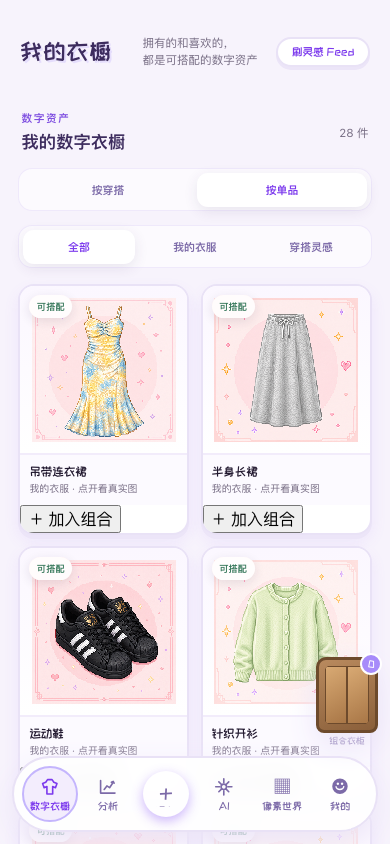
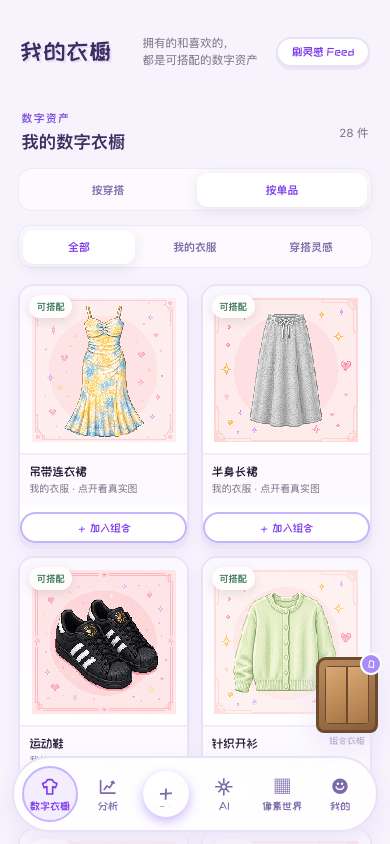
对话记录不再丢穿搭，修徽章和按钮样式，像素封面真的去底
**对话记录点进去变成新对话。** rememberConversation 每写一轮都无条件写
outfitLookId: null，于是「存了一套之后又多聊一句」就把那条链接抹掉了，
点记录只能进到新对话。存过的搭配是这条记录里最有价值的东西，只能被显式
传进来的 patch 覆盖。顺带把它改成函数式更新——它会从 mutation 的 onSuccess
里被调，那里拿到的 history 是旧闭包。

实测：存一套 → 再聊一句 → 记录里 outfitLookId 还在 → 点进去直接是那套的详情。

**「使用中」徽章盖住整张形象照。** 同一个徽章有两套定位规则：
.profile__photo span 把 top 钉在 7px，.photo-manager__active 把 bottom 钉在
8px，两条同时命中就把它从上拉到下。删掉重复的那条，徽章从 57×141 回到 57×18。

**「加入组合」按钮跟像素风不搭。** .combo-add 压根没有任何样式，显示的是
浏览器默认按钮——方框、系统字体。补成圆体胶囊，已加入时实心紫。

**像素封面带底色走进像素世界。** 去底原来按颜色判断（近白、低饱和），而
封面的底是饱和的粉紫渐变：浅的那部分勉强被吃掉，深的留下来。改颜色阈值
容易误伤粉色衣服，所以换成从画面四边往里漫水——人物不会碰到卡片边缘，
凡是跟边缘连通的就是背景，什么颜色都无所谓。容差按相邻像素比较而不是跟
起点比，渐变能一路走下去，人物边缘的突变会挡住它。

被取代的 isBackdrop 一并删掉。合成一张同样形态的图（粉紫渐变+亮点+中间
人形）把行为钉在 e2e 里：四角透明、人物保住、画布确实缩窄。

diff --git a/apps/h5/src/features/community/world/spriteLoader.ts b/apps/h5/src/features/community/world/spriteLoader.ts
@@ -23,16 +23,6 @@ function loadImage(url: string): Promise<HTMLImageElement> {
   });
 }
 
-function isBackdrop(red: number, green: number, blue: number, alpha: number) {
-  if (alpha < 20) return true;
-  const maximum = Math.max(red, green, blue);
-  const minimum = Math.min(red, green, blue);
-  return (
-    (red > 242 && green > 230 && blue > 230) ||
-    (maximum > 232 && maximum - minimum < 30)
-  );
-}
-
 /** Keeps the biggest solid shape, dropping card frames and sparkle specks. */
 function keepLargestOpaqueShape(imageData: ImageData) {
   const { data, width, height } = imageData;
@@ -90,6 +80,75 @@ function keepLargestOpaqueShape(imageData: ImageData) {
 
 const CUTOUT_HEIGHT = 360;
 
+
+/** 相邻两像素算不算「同一片背景」。 */
+const BACKDROP_SPREAD_TOLERANCE = 26;
+
+/**
+ * 从画面四边往里漫水，把跟边缘连通的一律清成透明。
+ *
+ * 原来只按颜色判断（近白、低饱和），可是衣橱的像素封面底是**饱和的粉紫
+ * 渐变**：浅的那部分勉强被认出来，深的直接留下，于是人物脚下拖着一块
+ * 有色底走进像素世界，跟地图格格不入。
+ *
+ * 换成从边框漫水之后，背景是什么颜色都无所谓——人物不会碰到卡片边缘，
+ * 凡是跟边缘连通的就是背景。容差按「相邻像素之间」比较而不是跟起点比，
+ * 所以渐变能一路走下去，而人物边缘的突变会把它挡住。
+ */
+function clearBackdropFromBorder(imageData: ImageData) {
+  const { data, width, height } = imageData;
+  const visited = new Uint8Array(width * height);
+  const queue = new Int32Array(width * height);
+  let head = 0;
+  let tail = 0;
+
+  const push = (index: number) => {
+    if (visited[index]) return;
+    visited[index] = 1;
+    queue[tail++] = index;
+  };
+
+  for (let x = 0; x < width; x += 1) {
+    push(x);
+    push((height - 1) * width + x);
+  }
+  for (let y = 0; y < height; y += 1) {
+    push(y * width);
+    push(y * width + width - 1);
+  }
+
+  while (head < tail) {
+    const index = queue[head++];
+    const offset = index * 4;
+    const red = data[offset];
+    const green = data[offset + 1];
+    const blue = data[offset + 2];
+    data[offset + 3] = 0;
+
+    const x = index % width;
+    const y = (index - x) / width;
+    const neighbours = [
+      x > 0 ? index - 1 : -1,
+      x < width - 1 ? index + 1 : -1,
+      y > 0 ? index - width : -1,
+      y < height - 1 ? index + width : -1
+    ];
+    for (const neighbour of neighbours) {
+      if (neighbour < 0 || visited[neighbour]) continue;
+      const next = neighbour * 4;
+      if (data[next + 3] < 20) {
+        push(neighbour);
+        continue;
+      }
+      const spread =
+        Math.abs(data[next] - red) +
+        Math.abs(data[next + 1] - green) +
+        Math.abs(data[next + 2] - blue);
+      if (spread <= BACKDROP_SPREAD_TOLERANCE) push(neighbour);
+    }
+  }
+}
+
 function cutOut(image: HTMLImageElement): CharacterSprite {
   const scale = CUTOUT_HEIGHT / image.naturalHeight;
   const width = Math.max(1, Math.round(image.naturalWidth * scale));
@@ -101,18 +160,7 @@ function cutOut(image: HTMLImageElement): CharacterSprite {
 
   context.drawImage(image, 0, 0, width, CUTOUT_HEIGHT);
   const imageData = context.getImageData(0, 0, width, CUTOUT_HEIGHT);
-  for (let index = 0; index < imageData.data.length; index += 4) {
-    if (
-      isBackdrop(
-        imageData.data[index],
-        imageData.data[index + 1],
-        imageData.data[index + 2],
-        imageData.data[index + 3]
-      )
-    ) {
-      imageData.data[index + 3] = 0;
-    }
-  }
+  clearBackdropFromBorder(imageData);
   keepLargestOpaqueShape(imageData);
   context.putImageData(imageData, 0, 0);
 

diff --git a/apps/h5/e2e/sprite-cutout.spec.ts b/apps/h5/e2e/sprite-cutout.spec.ts
@@ -1,0 +1,99 @@
+import { expect, test } from "@playwright/test";
+import fs from "node:fs";
+import path from "node:path";
+import { fileURLToPath } from "node:url";
+
+const outDir = path.resolve(
+  path.dirname(fileURLToPath(import.meta.url)),
+  "../../../docs/evidence/fixes"
+);
+
+/**
+ * 像素封面的底是饱和的粉紫渐变，还撒着亮点。原来的去底按颜色判断（近白、
+ * 低饱和），只吃掉浅的那部分，深的留下来——人物就拖着一块有色底走进像素
+ * 世界。这里合成一张同样形态的图，把行为钉住。
+ */
+test("a saturated gradient backdrop is cut away, the figure survives", async ({
+  page
+}) => {
+  await page.goto("/", { waitUntil: "domcontentloaded" });
+
+  const result = await page.evaluate(async () => {
+    const size = 240;
+    const source = document.createElement("canvas");
+    source.width = size;
+    source.height = size;
+    const draw = source.getContext("2d")!;
+
+    // 饱和的粉→紫渐变底，和真实封面一样。
+    const gradient = draw.createLinearGradient(0, 0, size, size);
+    gradient.addColorStop(0, "#fce7f3");
+    gradient.addColorStop(0.5, "#f9a8d4");
+    gradient.addColorStop(1, "#c4b5fd");
+    draw.fillStyle = gradient;
+    draw.fillRect(0, 0, size, size);
+
+    // 撒几颗亮点，看它们会不会被当成人物留下来。
+    draw.fillStyle = "#ffffff";
+    for (const [x, y] of [[24, 30], [200, 46], [40, 205], [210, 190]]) {
+      draw.fillRect(x, y, 4, 4);
+    }
+
+    // 中间一个不碰边的人形。
+    draw.fillStyle = "#3d2c5e";
+    draw.fillRect(size / 2 - 22, 60, 44, 120);
+    draw.beginPath();
+    draw.arc(size / 2, 52, 20, 0, Math.PI * 2);
+    draw.fill();
+
+    const url = source.toDataURL("image/png");
+    const mod = await import(
+      "/src/features/community/world/spriteLoader.ts"
+    );
+    const sprite = await mod.loadCharacterSprite({
+      url,
+      removeBackdrop: true
+    });
+
+    const out = document.createElement("canvas");
+    out.width = sprite.width;
+    out.height = sprite.height;
+    const ctx = out.getContext("2d")!;
+    ctx.drawImage(sprite.image as CanvasImageSource, 0, 0);
+    const data = ctx.getImageData(0, 0, out.width, out.height).data;
+    const alphaAt = (x: number, y: number) =>
+      data[(y * out.width + x) * 4 + 3];
+
+    let opaque = 0;
+    for (let i = 3; i < data.length; i += 4) if (data[i] > 20) opaque += 1;
+
+    return {
+      width: out.width,
+      height: out.height,
+      corners: [
+        alphaAt(0, 0),
+        alphaAt(out.width - 1, 0),
+        alphaAt(0, out.height - 1),
+        alphaAt(out.width - 1, out.height - 1)
+      ],
+      centreAlpha: alphaAt(Math.floor(out.width / 2), Math.floor(out.height / 2)),
+      opaqueRatio: opaque / (out.width * out.height),
+      png: out.toDataURL("image/png")
+    };
+  });
+
+  fs.mkdirSync(outDir, { recursive: true });
+  fs.writeFileSync(
+    path.join(outDir, "cutout-gradient-backdrop.png"),
+    Buffer.from(result.png.split(",")[1], "base64")
+  );
+
+  // 四角必须透明：有底色时它们一定是实的。
+  for (const alpha of result.corners) expect(alpha).toBeLessThan(20);
+  // 人物还在。
+  expect(result.centreAlpha).toBeGreaterThan(200);
+  // 剪完会把透明边裁掉，所以剩下的这块几乎全是人物——比例高才是对的。
+  expect(result.opaqueRatio).toBeGreaterThan(0.85);
+  // 而且画布确实缩窄了：背景是被剪掉，不是只换了个颜色。
+  expect(result.width).toBeLessThan(result.height * 0.75);
+});

diff --git a/apps/h5/src/features/ai/AIRecommendScreen.tsx b/apps/h5/src/features/ai/AIRecommendScreen.tsx
@@ -450,21 +450,36 @@ export function AIRecommendScreen({
   function rememberConversation(patch?: Partial<ChatRecord>) {
     const theme = themeRef.current;
     if (!theme) return;
-    const next = upsertChatRecord(history, {
-      id: conversationId,
-      date: new Date().toISOString(),
-      theme,
-      last: lastReplyRef.current,
-      outfitTitle: null,
-      outfitLookId: null,
-      messages: turnsRef.current.map((turn) => ({
-        role: turn.role,
-        text: turn.text
-      })),
-      ...patch
+    setHistory((current) => {
+      /*
+       * 先把这条已有的内容读出来再覆盖。
+       *
+       * 从前这里无条件写 outfitLookId: null，于是「存了一套穿搭之后又多聊
+       * 了一句」就把那条链接抹掉了，点对话记录只能进到新对话——正是用户
+       * 报的那个现象。存过的搭配是这条记录里最有价值的东西，只能被显式
+       * 传进来的 patch 覆盖。
+       *
+       * 用函数式更新是因为这个函数会从 mutation 的 onSuccess 里被调，
+       * 那里拿到的 history 是创建 mutation 那一轮的旧值。
+       */
+      const existing = current.find((entry) => entry.id === conversationId);
+      const next = upsertChatRecord(current, {
+        outfitTitle: existing?.outfitTitle ?? null,
+        outfitLookId: existing?.outfitLookId ?? null,
+        ...existing,
+        id: conversationId,
+        date: new Date().toISOString(),
+        theme,
+        last: lastReplyRef.current,
+        messages: turnsRef.current.map((turn) => ({
+          role: turn.role,
+          text: turn.text
+        })),
+        ...patch
+      });
+      saveChatHistory(next);
+      return next;
     });
-    setHistory(next);
-    saveChatHistory(next);
   }
 
   const displayedResult = progressiveResult ?? planning.data ?? null;

diff --git a/apps/h5/src/features/combo/combo.css b/apps/h5/src/features/combo/combo.css
@@ -186,3 +186,39 @@
     transition: none;
   }
 }
+
+/* ─── 卡片上的「加入组合」 ─── */
+
+/*
+ * 这个按钮一直没有任何样式，所以显示成浏览器默认按钮——方框、系统字体，
+ * 跟整屏的圆体胶囊完全不搭。这里让它跟卡片上其他控件说同一种话。
+ */
+.combo-add {
+  display: block;
+  width: 100%;
+  margin-top: 0.45rem;
+  padding: 0.42rem 0.6rem;
+  font-family: var(--font-pixel);
+  font-size: 0.7rem;
+  line-height: 1.2;
+  color: var(--pixel-primary-dark);
+  background: var(--pixel-surface);
+  border: 2px solid var(--pixel-secondary);
+  border-radius: 999px;
+  box-shadow: 0 2px 0 #ece5f8;
+  cursor: pointer;
+  transition: transform 0.1s ease, box-shadow 0.1s ease;
+}
+
+.combo-add:active {
+  transform: translateY(2px);
+  box-shadow: none;
+}
+
+/* 已经在组合里：实心，一眼能跟「还没加」分开。 */
+.combo-add[data-in-basket="true"] {
+  color: #fff;
+  background: var(--pixel-primary-fill);
+  border-color: var(--pixel-primary-dark);
+  box-shadow: 0 2px 0 var(--pixel-primary-dark);
+}

diff --git a/apps/h5/tests/chat-history.test.ts b/apps/h5/tests/chat-history.test.ts
@@ -100,4 +100,23 @@ describe("ai chat history", () => {
     // 坏掉的几句丢掉，整条记录还留着——不该因为一句话读不出来就整条消失。
     expect(readChatHistory()[0].messages).toEqual([{ role: "user", text: "在" }]);
   });
+
+  it("never loses the saved outfit just because the chat went on", () => {
+    // 存过的搭配是这条记录里最有价值的东西。从前每写一轮都把它抹成 null，
+    // 于是点对话记录只能进到新对话。
+    const saved: ChatRecord = {
+      ...record("c1"),
+      outfitTitle: "棕黄复古通勤",
+      outfitLookId: "look-1"
+    };
+    let history = upsertChatRecord([], saved);
+    history = upsertChatRecord(history, {
+      ...saved,
+      outfitTitle: saved.outfitTitle,
+      outfitLookId: saved.outfitLookId,
+      last: "又聊了一句"
+    });
+    expect(history[0].outfitLookId).toBe("look-1");
+    expect(history[0].last).toBe("又聊了一句");
+  });
 });

diff --git a/apps/h5/src/features/profile/profile.css b/apps/h5/src/features/profile/profile.css
@@ -116,18 +116,6 @@
   object-fit: cover;
 }
 
-.profile__photo span {
-  position: absolute;
-  top: 7px;
-  left: 7px;
-  padding: 2px 9px;
-  font-family: var(--font-pixel);
-  font-size: 0.62rem;
-  color: #fff;
-  background: var(--pixel-primary);
-  border-radius: 999px;
-}
-
 .profile__photo-add {
   flex: 0 0 122px;
   aspect-ratio: 3 / 4;
